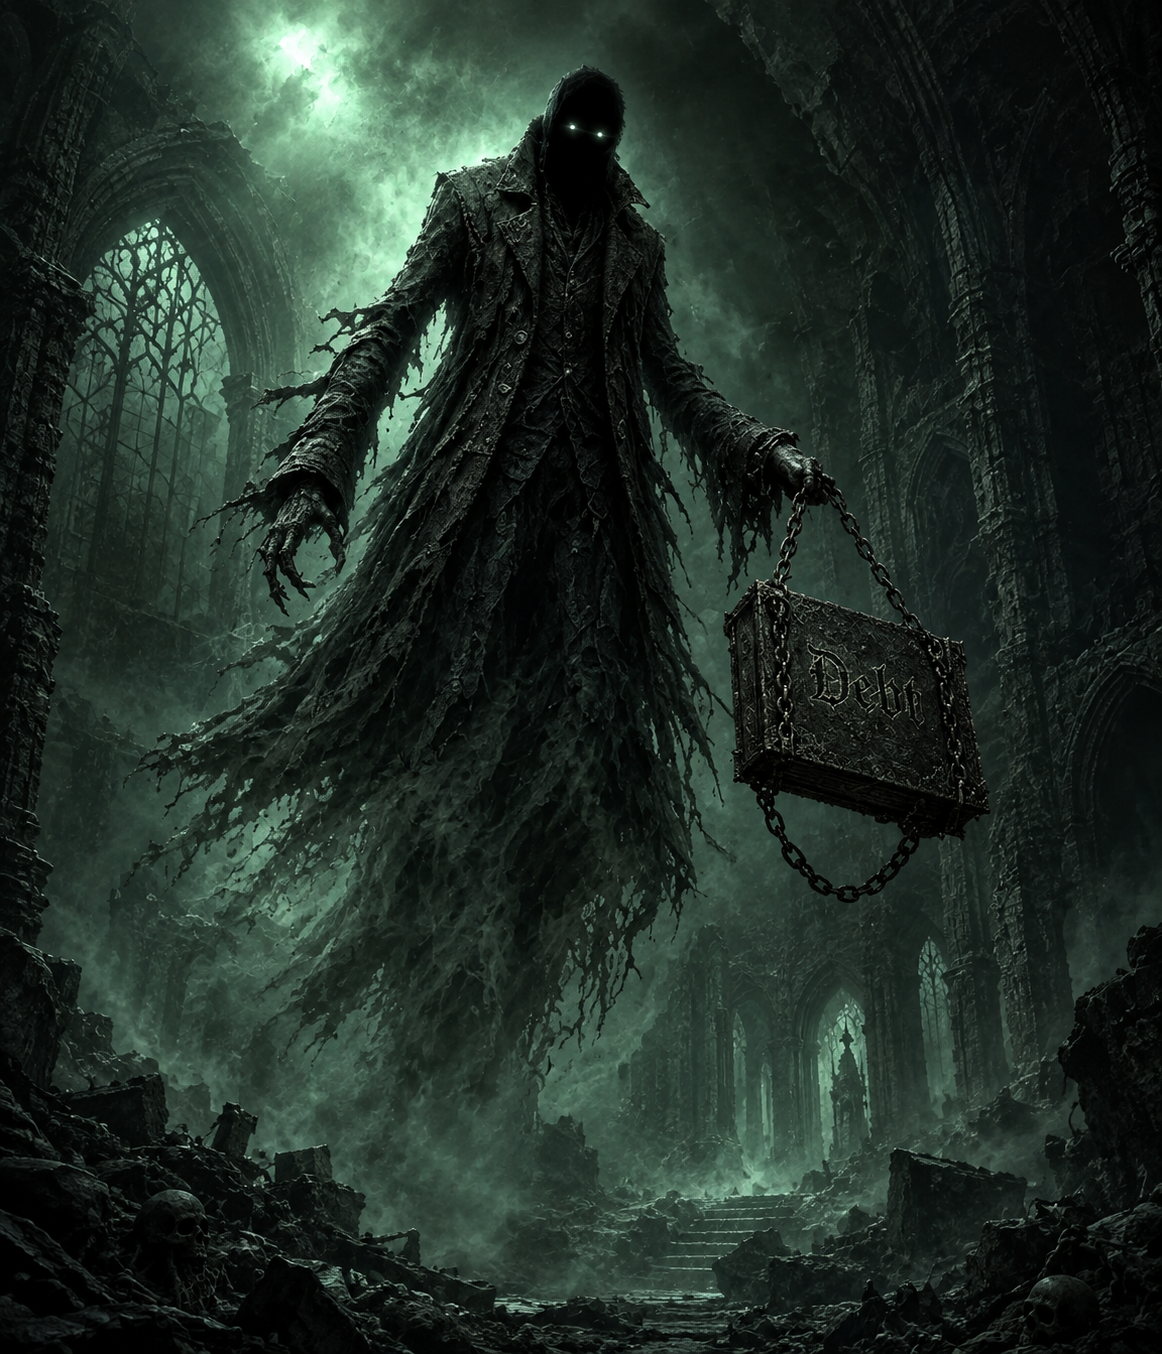
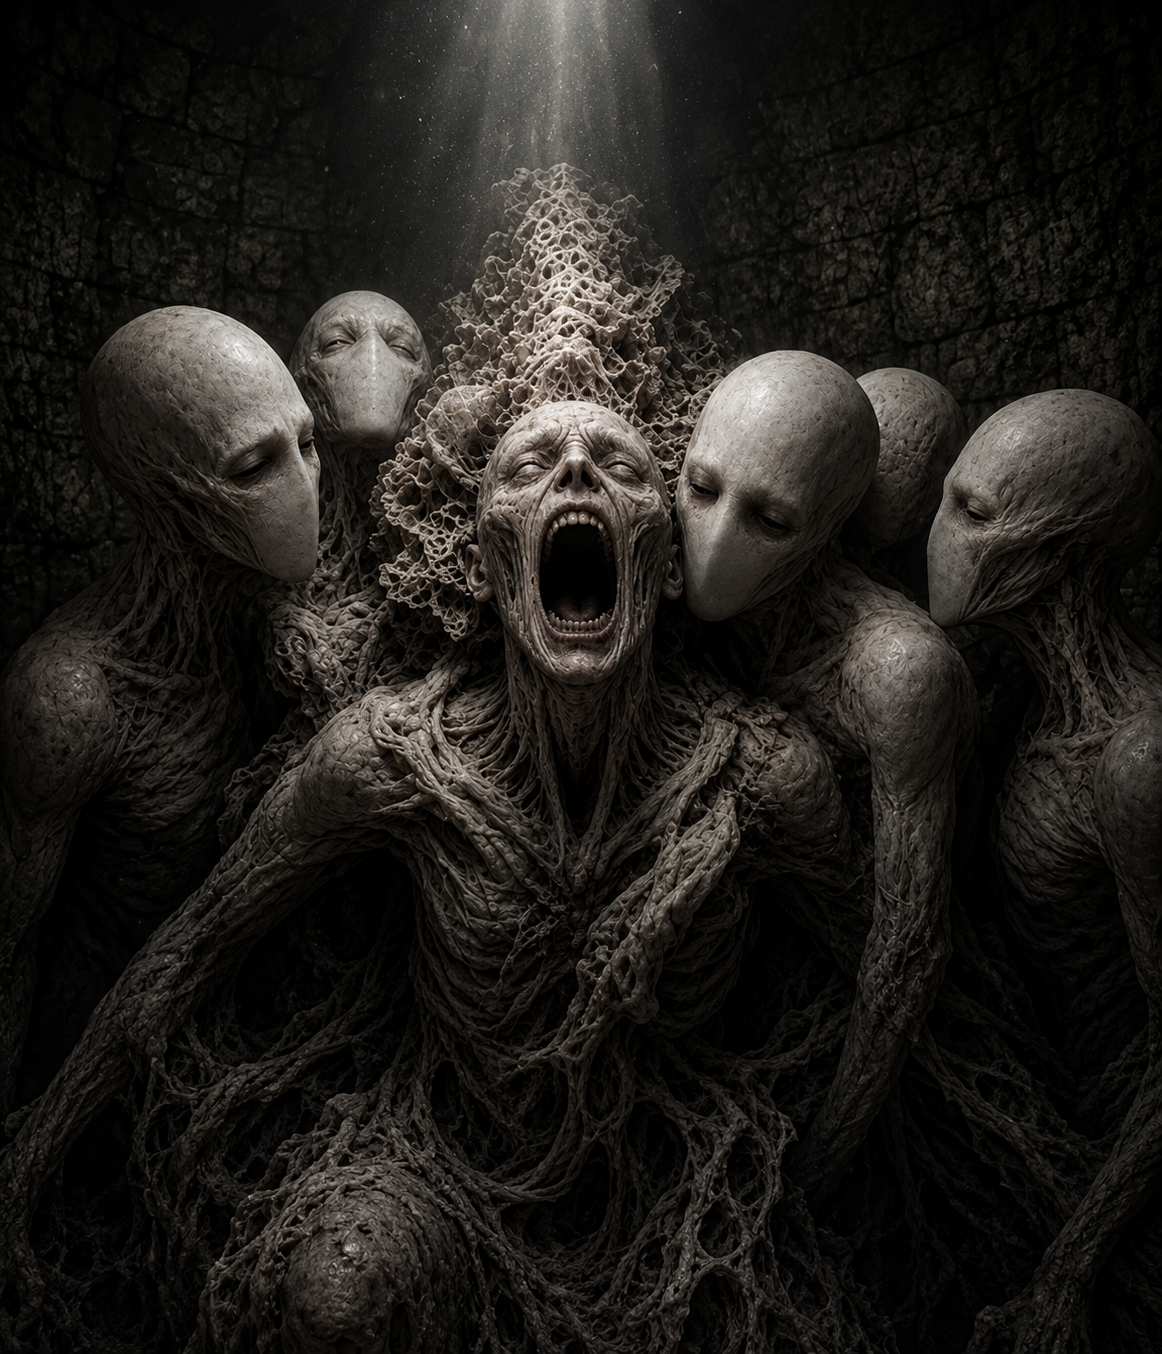
Add files via upload

diff --git a/shop.html b/shop.html
@@ -279,7 +279,7 @@
 
       <article class="card">
         <div class="card-image">
-          <img src="images/Debt Collector.png" alt="Hooded specter with glowing eyes carrying a chained box labeled Debt through a ruined cathedral">
+          <img src="images/Debt Collector.png" alt="Group of pale, faceless figures crowded around a screaming, sinew-wrapped human head">
         </div>
         <div class="card-body">
           <h3 class="card-title">Debt Collector</h3>
